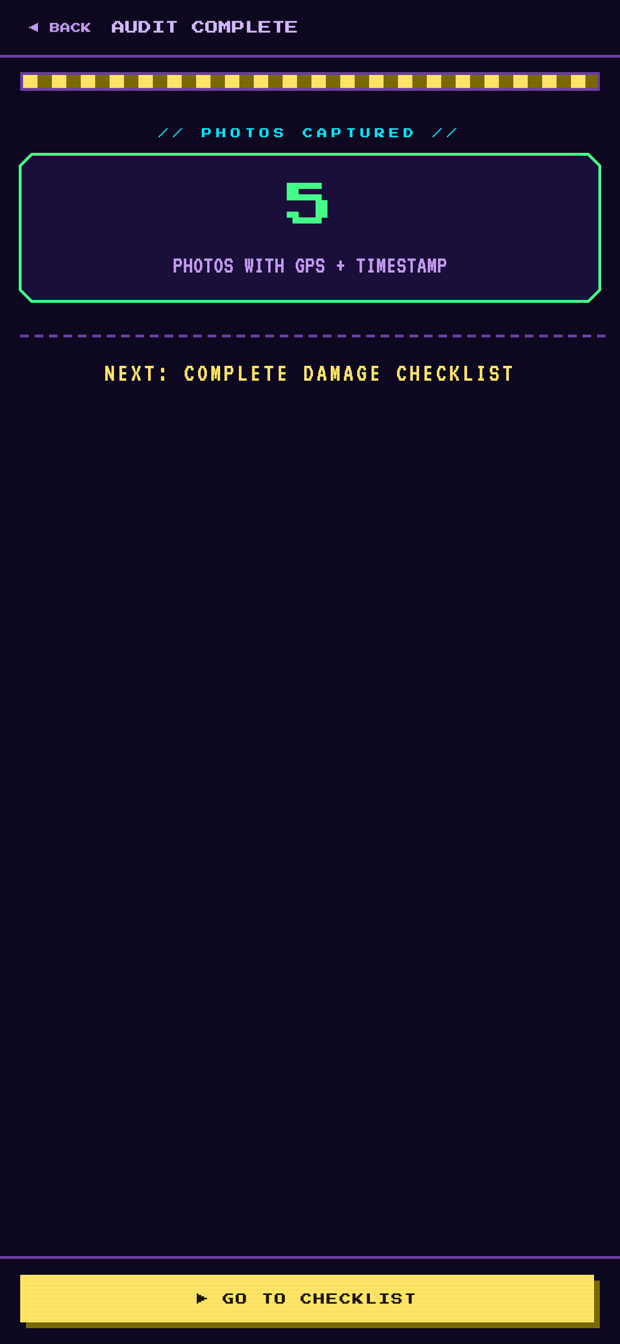
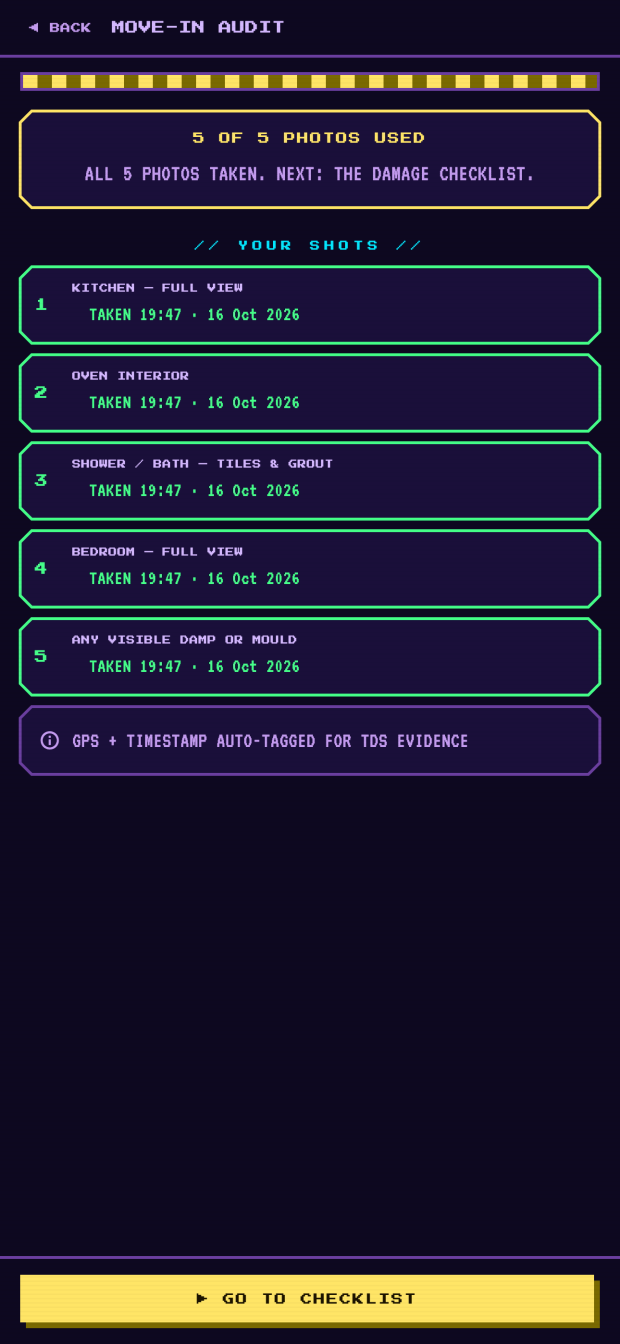
docs(guide): the move-in is five photos each, not eighteen prompts
The app's move-in changed (rm8tes-app PR #3): each person takes five
photos from a list they can change, and a shared flat splits the list
into the shots that are yours and the shared spaces taken once.

Part 03 is rewritten around that:
- Your five, and SWAP / remove / ADD A SHOT / SOMETHING ELSE to change
  them, with the reason each shot is named before it is taken.
- Two new steps for shared flats: which room is yours (titles use the
  room, never a name), and shared spaces photographed once, not
  counting towards your five. One paragraph on the 14-day rule for
  someone who joins after the others.
- The camera, save and finish steps reworded for the list. The damage
  checklist, seal and sealed-record steps are unchanged.

Part 04 gains a paragraph on who mirrors what in a shared flat, and its
example shot is now the kitchen. The homepage household card says
shared spaces are photographed once.

Screenshots come from the app's test/screenshots.dart as before. Five
are new (14a-14e), 14-audit-prompt is replaced by 14e, and the
audit-complete and four move-out shots are re-rendered from the new
flow. They are scaled with flags=area, about 30% smaller than ffmpeg's
default filter with no visible difference; the README says so.

Sitemap lastmod moves to today for / and /how-to/.

diff --git a/how-to/index.html b/how-to/index.html
@@ -242,8 +242,8 @@
       <section class="guide-part" id="move-in">
         <p class="part-n">Part 03</p>
         <h2>Photograph the flat at move-in</h2>
-        <p class="part-lede">This is the part that gets your deposit back. Eighteen guided shots on the day you move in, each one fingerprinted, time-stamped and located as you take it, then locked so nobody &mdash; including us &mdash; can quietly change them later. At move-out you shoot the same list again and the two sit side by side. <a href="../#how">How the proof holds up</a>.</p>
-        <p class="part-lede"><b>Do it before you unpack.</b> An hour on the day you get the keys is worth more than any argument you can make in June.</p>
+        <p class="part-lede">This is the part that gets your deposit back. <b>Five photos each</b> on the day you move in, each one fingerprinted, time-stamped and located as you take it, then locked so nobody &mdash; including us &mdash; can quietly change them later. At move-out you retake the same shots and the two sit side by side. <a href="../#how">How the proof holds up</a>.</p>
+        <p class="part-lede"><b>Do it before you unpack.</b> A few minutes on the day you get the keys is worth more than any argument you can make in June.</p>
 
         <ol class="gsteps">
           <li class="gstep">
@@ -263,18 +263,71 @@
             <div class="gstep-body">
               <span class="gstep-n">Step 02</span>
               <h3>LOG INVENTORY &rarr; MOVE-IN AUDIT</h3>
-              <p>The audit walks you through <b>eighteen prompts</b>, one at a time, in the order you would walk the flat: front door, hallway, living room, bedroom, kitchen, oven and fridge interiors, bathroom, meter readings, anything damp, the garden.</p>
-              <p>Each screen names the shot and tags it with a category. Nothing to photograph &mdash; no garden, no sofa? <span class="ui">SKIP</span> moves on. Leave halfway through and it reopens on the first prompt you have not captured.</p>
+              <p>You start with a list of five, our pick of what matters most: the <b>kitchen</b>, the inside of the <b>oven</b>, the <b>shower or bath tiles and grout</b>, your <b>bedroom</b>, and <b>any damp or mould</b>.</p>
+              <p>The counter at the top &mdash; <span class="ui">0 OF 5 PHOTOS USED</span> &mdash; is yours alone. Everyone who lives in the flat gets five of their own.</p>
             </div>
             <figure class="shot">
-              <img src="../assets/img/guide/14-audit-prompt.webp" width="620" height="1344" loading="lazy" decoding="async" alt="Audit step one of eighteen, prompting for the front door exterior and locks, with an awaiting capture placeholder and a capture photo button.">
-              <figcaption>Prompt 1 of 18</figcaption>
+              <img src="../assets/img/guide/14a-audit-list.webp" width="620" height="1344" loading="lazy" decoding="async" alt="The move-in audit list: zero of five photos used, and five shots to take &mdash; kitchen full view, oven interior, shower or bath tiles and grout, bedroom full view, and any visible damp or mould &mdash; each with swap and remove buttons.">
+              <figcaption>Your five</figcaption>
+            </figure>
+          </li>
+
+          <li class="gstep">
+            <div class="gstep-body">
+              <span class="gstep-n">Step 03</span>
+              <h3>Make the list fit your flat</h3>
+              <p>No oven worth photographing, but a stained carpet that matters more? <span class="ui">SWAP</span> on any shot opens the rest of the suggestions, grouped by room, and <span class="ui">SOMETHING ELSE&hellip;</span> at the bottom lets you name it yourself. The cross beside <span class="ui">SWAP</span> takes a shot off the list, and <span class="ui">ADD A SHOT</span> appears whenever you have room for one.</p>
+              <p>Every shot has its name <b>before</b> you take it. That name is what you will retake at move-out and what the evidence pack prints under the photo, so it is never left to fill in afterwards.</p>
+            </div>
+            <figure class="shot">
+              <img src="../assets/img/guide/14b-audit-swap.webp" width="620" height="1344" loading="lazy" decoding="async" alt="The swap sheet over the list: other shots to choose from, grouped under entrance, living room, bedroom, kitchen and bathroom headings, above a cancel button.">
+              <figcaption>Swap a shot</figcaption>
+            </figure>
+          </li>
+
+          <li class="gstep">
+            <div class="gstep-body">
+              <span class="gstep-n">Step 04</span>
+              <h3>Sharing the flat? Say which room is yours</h3>
+              <p>When more than one person lives in the household, the audit asks two things first: <b>which room is yours</b>, and whether you <b>share the bathroom or have your own</b>.</p>
+              <p>Your own shots are named after your room &mdash; <span class="ui">BEDROOM 2 &mdash; FULL VIEW</span> &mdash; so the pack can tell your bedroom from your flatmate&rsquo;s. Use the room, never a person&rsquo;s name: the shot&rsquo;s name becomes part of the permanent record.</p>
+            </div>
+            <figure class="shot">
+              <img src="../assets/img/guide/14c-audit-room.webp" width="620" height="1344" loading="lazy" decoding="async" alt="The shared-flat setup: which room is yours, with bedroom 2 picked from a row of room names, a reminder not to use names, a shared or my own bathroom choice, and a preview reading bedroom 2 full view.">
+              <figcaption>Which room is yours?</figcaption>
+            </figure>
+          </li>
+
+          <li class="gstep">
+            <div class="gstep-body">
+              <span class="gstep-n">Step 05</span>
+              <h3>Shared spaces are photographed once</h3>
+              <p>Your list splits in two. <span class="ui">YOURS</span> comes first &mdash; your room, and your en-suite if you have one &mdash; because nobody else can take those. <span class="ui">SHARED</span> is the kitchen, the oven and a shared bathroom: one photo each for the whole household, taken by whoever gets there first.</p>
+              <p>A shared photo a flatmate took shows their name and <b>does not count towards your five</b>. Further down, <span class="ui">FLATMATES</span> shows how far everyone else has got with their own rooms.</p>
+              <p><b>Joined after the others?</b> A shared photo taken more than 14 days before you joined the household no longer shows the flat as you found it. Your list gets your own retake of it, and that retake is one of your five.</p>
+            </div>
+            <figure class="shot">
+              <img src="../assets/img/guide/14d-audit-shared.webp" width="620" height="1344" loading="lazy" decoding="async" alt="A shared flat's list: zero of five photos used, two shots under yours for bedroom 2, three under shared with the kitchen already taken by Sam, and a flatmates card showing Sam's progress.">
+              <figcaption>Yours and shared</figcaption>
+            </figure>
+          </li>
+
+          <li class="gstep">
+            <div class="gstep-body">
+              <span class="gstep-n">Step 06</span>
+              <h3>Start the walkthrough</h3>
+              <p><span class="ui">START</span> walks you through whatever is left on your list, one shot at a time. Each screen names the shot and tags it with a category.</p>
+              <p><span class="ui">SKIP</span> leaves one for later; <span class="ui">BACK</span> returns to the list, where you can still swap it. Leave halfway through and the list remembers what you have taken.</p>
+            </div>
+            <figure class="shot">
+              <img src="../assets/img/guide/14e-audit-prompt.webp" width="620" height="1344" loading="lazy" decoding="async" alt="Photo one of five, asking for the kitchen full view, with a swap this shot link, an awaiting capture placeholder and a capture photo button.">
+              <figcaption>Photo 1 of 5</figcaption>
             </figure>
           </li>
 
           <li class="gstep wide">
             <div class="gstep-body">
-              <span class="gstep-n">Step 03</span>
+              <span class="gstep-n">Step 07</span>
               <h3>Take the shot</h3>
               <p><span class="ui">CAPTURE PHOTO</span> opens the camera &mdash; and only the camera. There is no &ldquo;choose from gallery&rdquo; here on purpose: a photo that could have come from anywhere proves nothing about this flat on this day.</p>
               <p>The moment the shutter closes, your phone records the time and asks for a GPS fix, and you get a preview to check before it goes anywhere:</p>
@@ -289,28 +342,28 @@
 
           <li class="gstep wide">
             <div class="gstep-body">
-              <span class="gstep-n">Step 04</span>
+              <span class="gstep-n">Step 08</span>
               <h3>Save it and move on</h3>
-              <p><span class="ui">NEXT &mdash; SAVE &amp; CONTINUE</span> uploads the photo and advances to the next prompt. That upload is where the record is actually made: our server recomputes the photo&rsquo;s fingerprint from the file it received and refuses the whole thing if it disagrees with what your phone sent.</p>
-              <p>Once a prompt holds a photo, <b>that slot is closed</b>. You cannot swap the shot for a nicer one an hour later, and neither can anyone else &mdash; which is exactly why a deposit scheme will take it seriously.</p>
+              <p><span class="ui">NEXT &mdash; SAVE &amp; CONTINUE</span> uploads the photo and moves you to the next shot on your list. That upload is where the record is actually made: our server recomputes the photo&rsquo;s fingerprint from the file it received and refuses the whole thing if it disagrees with what your phone sent.</p>
+              <p>Once a shot holds a photo, <b>that slot is closed</b>. You cannot swap it for a nicer one an hour later, and neither can anyone else &mdash; which is exactly why a deposit scheme will take it seriously. If a flatmate photographed the same shared shot a moment before you did, theirs stands and the app moves you on.</p>
             </div>
           </li>
 
           <li class="gstep">
             <div class="gstep-body">
-              <span class="gstep-n">Step 05</span>
+              <span class="gstep-n">Step 09</span>
               <h3>Finish the round</h3>
-              <p>Work through until the header reads <span class="ui">AUDIT COMPLETE</span> and it totals up what you captured. Then <span class="ui">GO TO CHECKLIST</span>.</p>
+              <p>Once your five are taken the counter reads <span class="ui">5 OF 5 PHOTOS USED</span>, and <span class="ui">GO TO CHECKLIST</span> takes you on. Want to stop with photos to spare? <span class="ui">DONE FOR NOW &mdash; CHECKLIST</span> on the list does the same.</p>
             </div>
             <figure class="shot">
-              <img src="../assets/img/guide/16-audit-complete.webp" width="620" height="1344" loading="lazy" decoding="async" alt="The audit complete screen counting five photos with GPS and timestamp, above a go to checklist button.">
-              <figcaption>Audit complete</figcaption>
+              <img src="../assets/img/guide/16-audit-complete.webp" width="620" height="1344" loading="lazy" decoding="async" alt="The move-in list with five of five photos used, every shot marked taken with its time and date, above a go to checklist button.">
+              <figcaption>Five taken</figcaption>
             </figure>
           </li>
 
           <li class="gstep">
             <div class="gstep-body">
-              <span class="gstep-n">Step 06</span>
+              <span class="gstep-n">Step 10</span>
               <h3>Write down the damage you inherited</h3>
               <p>Twenty-four rows across six categories &mdash; walls, carpet, furniture, appliances, bathroom, kitchen. Tick anything that is already wrong and grade it <span class="ui">MINOR</span>, <span class="ui">MODERATE</span> or <span class="ui">SEVERE</span>. The pills along the top filter by room.</p>
               <p>This is the list a landlord will quietly turn into deductions if you never made it. A scuff you photographed and graded on day one is not damage you caused.</p>
@@ -323,7 +376,7 @@
 
           <li class="gstep">
             <div class="gstep-body">
-              <span class="gstep-n">Step 07</span>
+              <span class="gstep-n">Step 11</span>
               <h3>Seal it</h3>
               <p><span class="ui">COMPLETE CHECK-IN</span> asks first, because sealing is <b>one-way</b>: no more photos against this move-in, no more checklist edits, ever. That permanence is the point &mdash; it is what stops &ldquo;move-in photos&rdquo; from appearing months into a dispute.</p>
               <p>In a shared flat, <b>every other flatmate has to agree it is complete before it will seal</b>. If someone has gone quiet, the household owner can seal anyway &mdash; and the evidence pack records in writing that they did.</p>
@@ -336,10 +389,10 @@
 
           <li class="gstep">
             <div class="gstep-body">
-              <span class="gstep-n">Step 08</span>
+              <span class="gstep-n">Step 12</span>
               <h3>What you are left holding</h3>
               <p>The audit becomes a closed record: how many photos it holds, when it was sealed, and no camera anywhere on the screen.</p>
-              <p>From here the flat looks after itself. Log repairs and replacements in the <span class="ui">LIVING DIARY</span> as they happen, and when you leave, <span class="ui">MOVE-OUT AUDIT</span> replays your own move-in shots one at a time so you can mirror them &mdash; then packs the lot into a PDF you can hand to a deposit scheme.</p>
+              <p>From here the flat looks after itself. Log repairs and replacements in the <span class="ui">LIVING DIARY</span> as they happen, and when you leave, <span class="ui">MOVE-OUT AUDIT</span> replays the move-in shots one at a time so you can mirror them &mdash; then packs the lot into a PDF you can hand to a deposit scheme.</p>
             </div>
             <figure class="shot">
               <img src="../assets/img/guide/19-sealed.webp" width="620" height="1344" loading="lazy" decoding="async" alt="The sealed move-in record: a padlock, a count of five photos attested and sealed, and the date it closed.">
@@ -367,6 +420,7 @@
               <h3>Two ways in</h3>
               <p>From home, <span class="ui">MOVE-OUT AUDIT</span> runs on whatever flat is currently active. Already archived the flat (<a href="#deposit-outcome">Part 05</a>)? Tap its card instead and choose <span class="ui">MOVE-OUT AUDIT & PACK</span> &mdash; the same screen, aimed at that one flat by name.</p>
               <p>The intro screen counts your move-in photos and lays out the four steps: pull them up, retake each one from the same angle, pair them up, build the PDF. With nothing to mirror, <span class="ui">BEGIN MIRROR FLOW</span> stays dead until a move-in audit exists.</p>
+              <p>Sharing the flat? You mirror the <b>shared shots and your own</b>. A flatmate&rsquo;s own shots wait for them &mdash; the intro says so, as in <span class="ui">WAITING ON BEDROOM 1: 2 SHOTS</span> &mdash; unless they have already left the household, in which case they are yours to mirror.</p>
             </div>
             <figure class="shot">
               <img src="../assets/img/guide/20-checkout-intro.webp" width="620" height="1344" loading="lazy" decoding="async" alt="The move-out audit intro screen: a how it works card listing the four mirror steps, a count of move-in photos loaded, and a begin mirror flow button.">
@@ -378,11 +432,11 @@
             <div class="gstep-body">
               <span class="gstep-n">Step 02</span>
               <h3>Match the old shot</h3>
-              <p><span class="ui">BEGIN MIRROR FLOW</span> puts your move-in photo on the left and an empty frame on the right, both under the same prompt &mdash; <span class="ui">FRONT DOOR &mdash; EXTERIOR & LOCKS</span>, say. <span class="ui">CAPTURE MIRROR SHOT</span> opens the camera only, same as move-in; line the shot up as closely as you can and <span class="ui">RETAKE</span> if it is not close enough.</p>
-              <p><span class="ui">SKIP</span> passes over a prompt with nothing to shoot &mdash; that slot is simply left out of the pack rather than blocking you. The progress bar counts down the same list your move-in audit used, so you always know how many are left.</p>
+              <p><span class="ui">BEGIN MIRROR FLOW</span> puts your move-in photo on the left and an empty frame on the right, both under the same name &mdash; <span class="ui">KITCHEN &mdash; FULL VIEW</span>, say. <span class="ui">CAPTURE MIRROR SHOT</span> opens the camera only, same as move-in; line the shot up as closely as you can and <span class="ui">RETAKE</span> if it is not close enough.</p>
+              <p><span class="ui">SKIP</span> passes over a shot you cannot retake &mdash; it is simply left unpaired in the pack rather than blocking you. The progress bar counts down the shots you have to mirror, so you always know how many are left.</p>
             </div>
             <figure class="shot">
-              <img src="../assets/img/guide/21-mirror.webp" width="620" height="1344" loading="lazy" decoding="async" alt="The mirror screen: the move-in reference photo beside an empty frame for the new shot, a GPS tagged badge, and the prompt front door exterior and locks to match.">
+              <img src="../assets/img/guide/21-mirror.webp" width="620" height="1344" loading="lazy" decoding="async" alt="The mirror screen: the move-in reference photo beside the new shot, a GPS tagged badge, and kitchen full view as the shot to match.">
               <figcaption>Mirror 1 of 2</figcaption>
             </figure>
           </li>
@@ -391,7 +445,7 @@
             <div class="gstep-body">
               <span class="gstep-n">Step 03</span>
               <h3>Finish &amp; seal</h3>
-              <p>Work through every prompt and the footer becomes <span class="ui">FINISH & SEAL MOVE-OUT</span>. Sealing is one-way, same as move-in and for the same reason: a photo taken after everyone has left and the keys are back is not a photo anyone should trust the date of.</p>
+              <p>Work through every shot and the footer becomes <span class="ui">FINISH & SEAL MOVE-OUT</span>. Sealing is one-way, same as move-in and for the same reason: a photo taken after everyone has left and the keys are back is not a photo anyone should trust the date of.</p>
               <p>You need at least one mirror shot to seal &mdash; an empty move-out cannot be closed. Sharing the flat? The seal only fires once every flatmate has agreed the round is done; the household owner can push it through if someone has gone quiet, and the pack notes in writing that they did.</p>
             </div>
             <figure class="shot">

diff --git a/index.html b/index.html
@@ -193,7 +193,7 @@
       <li class="bond">
         <span class="bond-n">Together</span>
         <h3>Everyone shoots, everyone sees</h3>
-        <p>Photograph your own room; open the app and see theirs. Each photo is credited to the flatmate who took it, and the flat leaves with <b>one evidence pack covering all of it</b>&mdash;not four partial ones that contradict each other.</p>
+        <p>Photograph your own room&mdash;the kitchen only needs doing once, by whoever gets there first&mdash;and open the app to see theirs. Each photo is credited to the flatmate who took it, and the flat leaves with <b>one evidence pack covering all of it</b>&mdash;not four partial ones that contradict each other.</p>
       </li>
       <li class="bond">
         <span class="bond-n">Agree</span>

diff --git a/README.md b/README.md
@@ -36,10 +36,12 @@ cd "../new rm8tes"
 SHOT_DIR=/tmp/shots flutter test test/screenshots.dart
 
 # down to display size, then lossless WebP (~40% smaller than the PNG,
-# and pixel type does not survive a lossy pass)
+# and pixel type does not survive a lossy pass). flags=area averages pixels
+# rather than ringing around the pixel font's edges, which compresses ~30%
+# smaller than ffmpeg's default filter with no visible difference.
 cd /tmp/shots
 for f in *.png; do
-  ffmpeg -i "$f" -vf "scale=620:-1" "/tmp/${f%.png}-620.png"
+  ffmpeg -i "$f" -vf "scale=620:-1:flags=area" "/tmp/${f%.png}-620.png"
   cwebp -lossless -z 9 "/tmp/${f%.png}-620.png" -o "…/assets/img/guide/NN-name.webp"
 done
 ```
